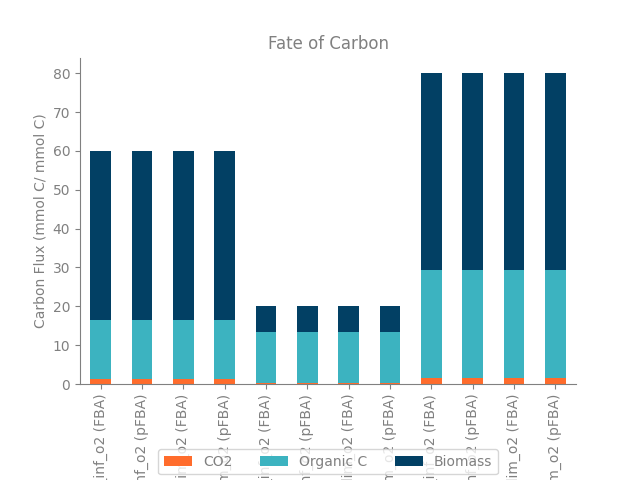
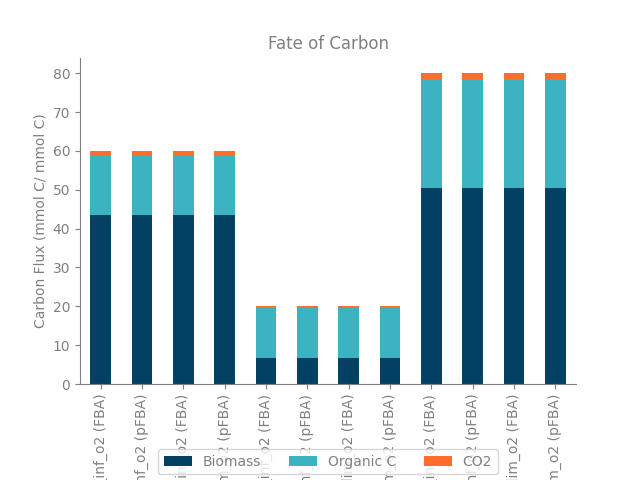
Reorder bars

diff --git a/plot_styles.py b/plot_styles.py
@@ -20,12 +20,12 @@ def set_plot_style(g):
 
 
 def carbon_fates_bar(data):
-    # Check that the column names are correct
-    assert set(data.columns) == set(["co2", "organic_c", "biomass"])
+    # Check that the column names are correct. Does this check for the order of the columns?
+    assert set(data.columns) == set(["biomass", "organic_c", "co2"])
     # Plot the stacked bar plot
-    g = data.plot(kind="bar", stacked=True, color=[ORANGE, LIGHT_BLUE, DARK_BLUE])
+    g = data.plot(kind="bar", stacked=True, color=[DARK_BLUE, LIGHT_BLUE, ORANGE])
     # Move the legend outside of the plot
-    custom_labels = ["CO2", "Organic C", "Biomass"]
+    custom_labels = ["Biomass", "Organic C", "CO2"]
     lgd = plt.legend(
         bbox_to_anchor=(0.5, -0.20),
         loc="upper center",

diff --git a/mit1002_full/glc_and_ace/plot_cue.py b/mit1002_full/glc_and_ace/plot_cue.py
@@ -39,7 +39,7 @@ condition_names = ["glc_inf_o2 (FBA)",
 results["condition"] = condition_names
 
 # Stacked bar plot of the carbon fates for the different conditions
-data = results.set_index("condition")[["co2", "organic_c", "biomass"]]
+data = results.set_index("condition")[["biomass", "organic_c", "co2"]]
 g = carbon_fates_bar(data)
 g.set_xlabel("Simulation Conditions", color="gray")
 g.set_ylabel("Carbon Flux (mmol C/ mmol C)", color="gray")  # TODO: Check the units
